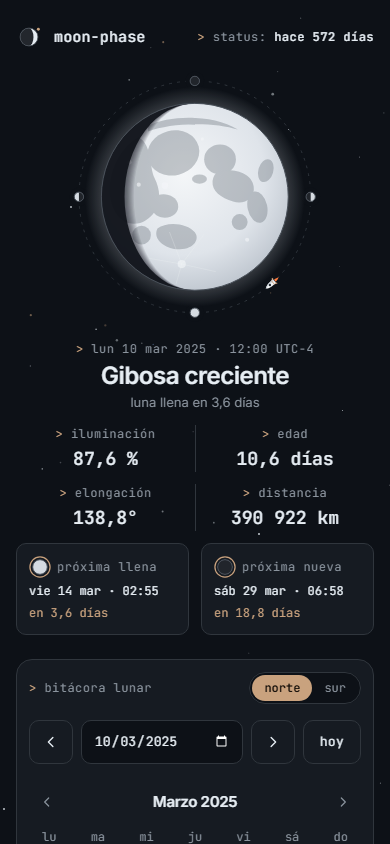
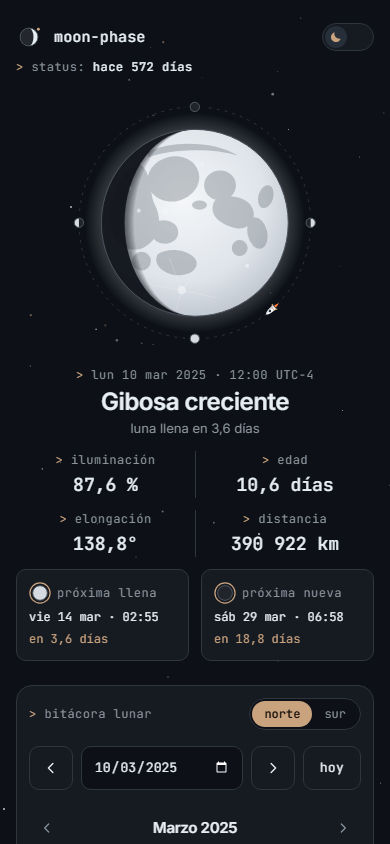
docs: mention the theme switch and refresh previews

diff --git a/README.md b/README.md
@@ -21,6 +21,7 @@
 - The calendar draws every day's Moon, rings the days of new moon, quarters and full moon, and lists their exact local times.
 - Next full moon and next new moon, with local date, time and a countdown in days.
 - Northern / southern hemisphere view (the Moon is drawn upside down in the south). The choice is remembered (`localStorage`).
+- A switch in the header flips between dark and light mode: the same sky redrawn as a star chart on paper, with the Moon as an almanac diagram (ivory for the lit part, ink grey for the shadow). The choice is remembered and shared across the Plutón series.
 
 ### What makes it technically interesting
 
@@ -73,6 +74,7 @@ node -e "global.window={}; require('./js/astro.js'); console.log(new Date(window
 - El calendario dibuja la Luna de cada día, marca con un anillo los días de luna nueva, cuartos y luna llena, y lista sus horas locales exactas.
 - Próxima luna llena y próxima luna nueva, con fecha y hora local y una cuenta atrás en días.
 - Vista desde el hemisferio norte o el sur (en el sur la Luna se dibuja invertida). La elección se recuerda (`localStorage`).
+- Un interruptor en la cabecera alterna entre modo oscuro y claro: el mismo cielo redibujado como carta estelar sobre papel, con la Luna como diagrama de almanaque (marfil para la parte iluminada, gris tinta para la sombra). La elección se recuerda y se comparte entre los proyectos de la serie Plutón.
 
 ### Qué lo hace interesante técnicamente
 
